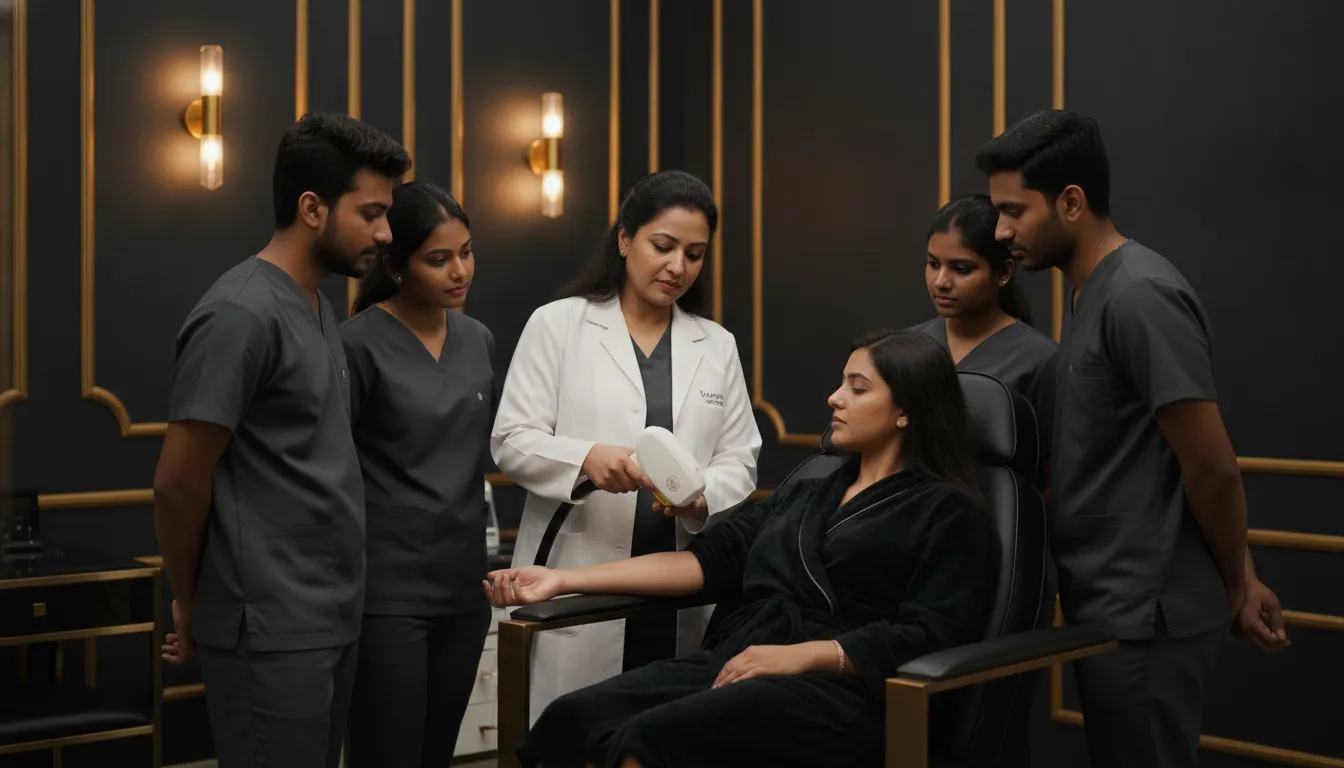
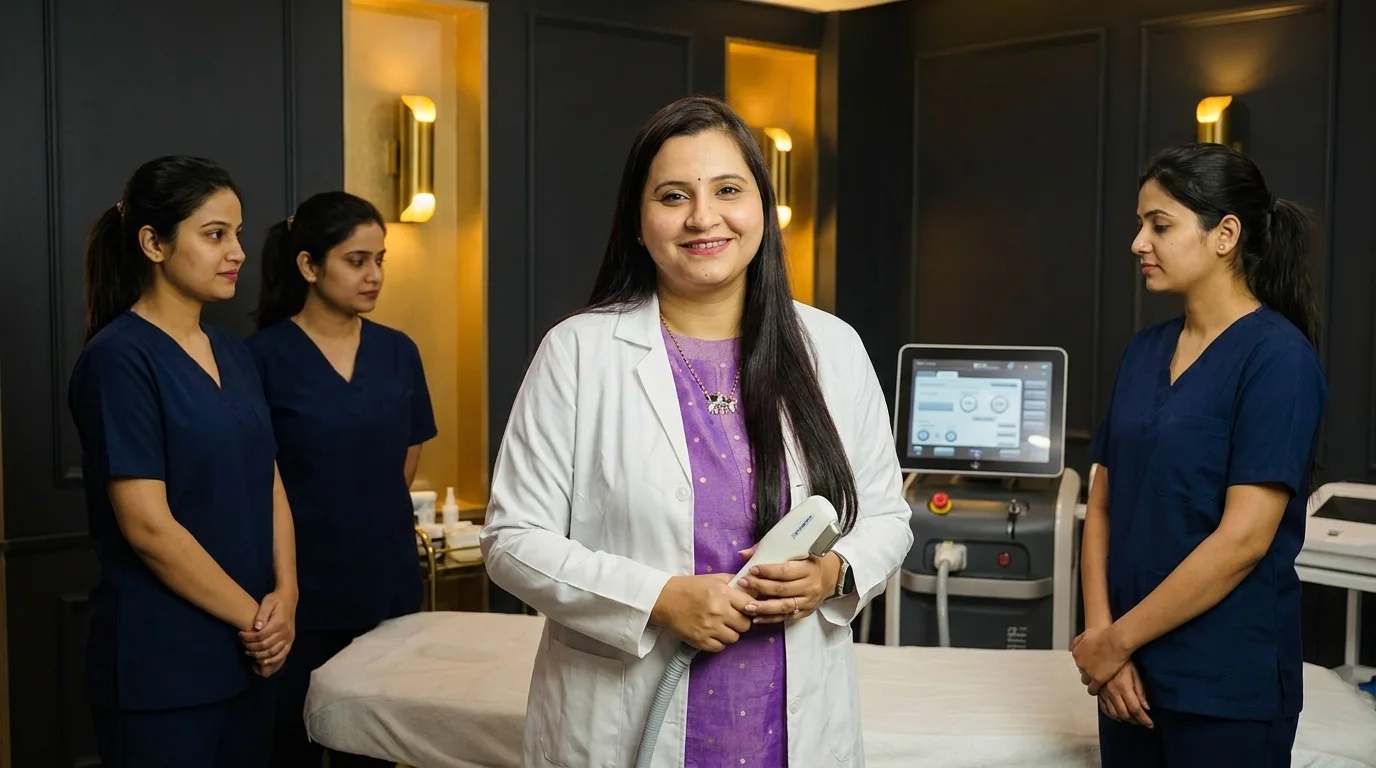
academy: Dr. Meghana real-face scenes on hero, modules and batch card

diff --git a/academy.html b/academy.html
@@ -166,7 +166,7 @@
     .ac-modules { display: grid; grid-template-columns: repeat(auto-fit, minmax(260px, 1fr)); gap: 1.2rem; }
     .ac-module { background: var(--panel); border: 1px solid var(--line); border-radius: var(--radius); overflow: hidden; display: flex; flex-direction: column; transition: transform .4s var(--ease), border-color .4s; }
     .ac-module:hover { transform: translateY(-4px); border-color: rgba(201,162,92,.4); }
-    .ac-module img { width: 100%; height: auto; aspect-ratio: 4/3; object-fit: cover; }
+    .ac-module img { width: 100%; height: auto; aspect-ratio: 4/3; object-fit: cover; object-position: 50% 25%; }
     .ac-module__body { padding: 1.1rem 1.2rem 1.3rem; display: grid; gap: .45rem; }
     .ac-module__body h3 { font-size: 1.35rem; line-height: 1.15; }
     .ac-module__body .te { color: var(--gold-3); font-size: .85rem; }
@@ -209,7 +209,7 @@
     .ac-batch__table b { font-weight: 500; color: var(--text); }
     .ac-batch__table b.gold { color: var(--gold-1); font-weight: 600; }
     .ac-batch__card { border-radius: var(--radius); overflow: hidden; position: relative; min-height: 320px; border: 1px solid var(--line); }
-    .ac-batch__card img { position: absolute; inset: 0; width: 100%; height: 100%; object-fit: cover; }
+    .ac-batch__card img { position: absolute; inset: 0; width: 100%; height: 100%; object-fit: cover; object-position: 50% 20%; }
     .ac-batch__card div { position: absolute; inset: auto 0 0; padding: 1.4rem; background: linear-gradient(0deg, rgba(10,10,12,.95), rgba(10,10,12,.6) 60%, transparent); }
     .ac-batch__card b { display: block; font-family: var(--font-serif); font-size: 1.7rem; font-weight: 600; color: var(--gold-1); line-height: 1.1; }
     .ac-batch__card p { color: var(--muted); font-size: .9rem; margin-top: .4rem; }
@@ -299,7 +299,7 @@
           </div>
         </div>
         <div class="ac-hero__art">
-          <img src="assets/academy/hero.webp" alt="Trainer demonstrating a diode laser to a small batch of trainees at DermaLuxe Academy, Eluru" width="1600" height="1100" fetchpriority="high" />
+          <img src="assets/academy/hero.webp" alt="Dr. Meghana Valeti with trainees and a diode laser machine at DermaLuxe Academy, Eluru" width="1600" height="900" fetchpriority="high" />
           <div class="ac-hero__badge"><i>🩺</i><div><b>MD Dermatologist-led</b><small>USFDA-approved machines · live clients</small></div></div>
         </div>
       </div>
@@ -399,7 +399,7 @@
         </div>
         <div class="ac-modules">
           <article class="ac-module">
-            <img src="assets/academy/laser-hair-removal.webp" alt="Trainee guided by trainer using a diode laser hair removal handpiece" loading="lazy" width="1200" height="900" />
+            <img src="assets/academy/dr-laser.webp" alt="Dr. Meghana Valeti guiding a trainee's hand on a diode laser hair removal handpiece" loading="lazy" width="1200" height="900" />
             <div class="ac-module__body"><small>Skin · Lasers</small><h3>Laser Hair Removal</h3><span class="te">లేజర్ హెయిర్ రిమూవల్</span><p>Diode laser settings for Indian skin, area-wise technique, cooling, safety and how to plan a 6–8 session course.</p></div>
           </article>
           <article class="ac-module">
@@ -411,7 +411,7 @@
             <div class="ac-module__body"><small>Skin · Acne</small><h3>Acne Treatments</h3><span class="te">యాక్నే ట్రీట్మెంట్స్</span><p>Active acne care, comedone extraction, acne-mark protocols and when to refer to the dermatologist.</p></div>
           </article>
           <article class="ac-module">
-            <img src="assets/academy/chemical-peel.webp" alt="Trainee applying a chemical peel with a brush on a client's cheek" loading="lazy" width="1200" height="900" />
+            <img src="assets/academy/dr-peel.webp" alt="Dr. Meghana Valeti demonstrating a chemical peel to a trainee" loading="lazy" width="1200" height="900" />
             <div class="ac-module__body"><small>Skin · Peels</small><h3>Chemical Peels</h3><span class="te">కెమికల్ పీల్స్</span><p>Choosing the right peel, layering, neutralising, frosting end-points and post-peel care.</p></div>
           </article>
           <article class="ac-module">
@@ -419,7 +419,7 @@
             <div class="ac-module__body"><small>Skin &amp; Hair · Analysis</small><h3>Skin &amp; Hair Analysis</h3><span class="te">స్కిన్ &amp; హెయిర్ అనాలిసిస్</span><p>AI skin analysis, dermoscopy, scalp mapping and how to explain findings to a client with confidence.</p></div>
           </article>
           <article class="ac-module">
-            <img src="assets/academy/prp-gfc.webp" alt="Syringe of platelet-rich plasma beside a centrifuge on a sterile clinic tray" loading="lazy" width="1200" height="900" />
+            <img src="assets/academy/dr-prp.webp" alt="Dr. Meghana Valeti explaining a PRP syringe to trainees beside a centrifuge" loading="lazy" width="1200" height="900" />
             <div class="ac-module__body"><small>Hair · Regrowth</small><h3>PRP &amp; GFC Therapy</h3><span class="te">PRP &amp; GFC హెయిర్ థెరపీ</span><p>Blood draw assist, centrifuge protocol, plasma &amp; growth-factor preparation, scalp technique and session planning.</p></div>
           </article>
           <article class="ac-module">
@@ -427,7 +427,7 @@
             <div class="ac-module__body"><small>Hair · Scalp</small><h3>Dandruff &amp; Hair Fall Treatments</h3><span class="te">చుండ్రు &amp; హెయిర్ ఫాల్ ట్రీట్మెంట్స్</span><p>Scalp treatments, hair-fall protocols for men &amp; women, mesotherapy assist and home-care counselling.</p></div>
           </article>
           <article class="ac-module">
-            <img src="assets/academy/certificate.webp" alt="Batch of DermaLuxe Academy graduates holding certificates in the clinic lobby" loading="lazy" width="1200" height="900" />
+            <img src="assets/academy/dr-batch.webp" alt="Dr. Meghana Valeti with a batch of DermaLuxe Academy trainees holding certificates" loading="lazy" width="1200" height="900" />
             <div class="ac-module__body"><small>Skin · Lasers</small><h3>Laser Treatments &amp; Certification</h3><span class="te">లేజర్ ట్రీట్మెంట్స్ &amp; సర్టిఫికేట్</span><p>Carbon laser facial, CO2 &amp; MNRF assist, laser safety — then a practical assessment and your DermaLuxe Academy certificate.</p></div>
           </article>
         </div>
@@ -518,7 +518,7 @@
             <div><span>Fees</span><b>Shared on WhatsApp — <a href="/r/academy" style="color:var(--gold-2)">ask now →</a></b></div>
           </div>
           <div class="ac-batch__card">
-            <img src="assets/academy/certificate.webp" alt="DermaLuxe Academy trainees with certificates" loading="lazy" />
+            <img src="assets/academy/dr-batch.webp" alt="Dr. Meghana Valeti with DermaLuxe Academy trainees holding certificates" loading="lazy" />
             <div><b>Only 10 seats. First come, first trained.</b><p>Seats are confirmed in the order of admission. Message us on WhatsApp to reserve yours before the batch fills.</p></div>
           </div>
         </div>
